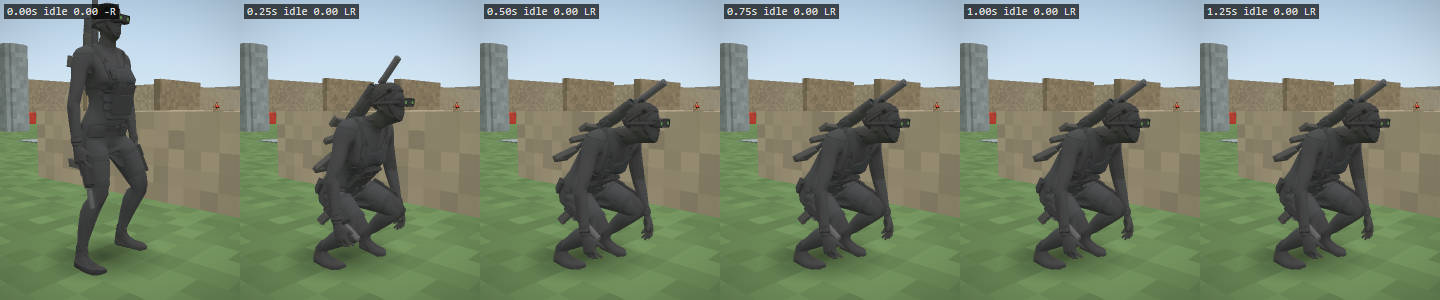
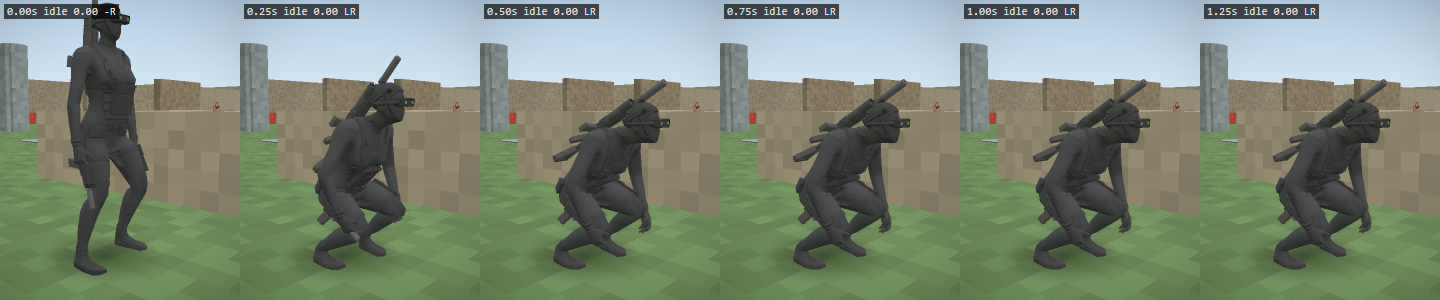
anim-cleanup: crouched free hands by the thighs above the knees (CT Core handover)
- READY_HANDS xCrouch 0, flexCrouch 0.9: crouched and holstered the hands come in by the thighs just above the knees
  (elbow ~52 deg) instead of hanging ahead of the knees towards the ground; the most bend that keeps the forearms clear
  of the thigh capsules. readyHands test: crouched elbow 15-60 deg (was 15-50).

diff --git a/src/anim/animGraph.ts b/src/anim/animGraph.ts
@@ -325,7 +325,8 @@ export const HUNCH = { spine: 0.5, pelvis: 0.1, head: 0.34, drop: 0.07, wall: 0.
  * - `z` (m) the wrist ahead of the shoulder at rest, `zCrouch` more ahead crouched, `zSprint` at the sprint (the
  *   pumping hands carried by the lower chest; A80: 1 cm with a 13 cm pump, at 8 / 16 cm the forward forearm went
  *   level at the chest and read as a reach).
- * - `flex`, `flexCrouch`, `flexSprint` (rad) the elbow bend standing (~18 deg), crouched (~34) and pumping (~80).
+ * - `flex`, `flexCrouch`, `flexSprint` (rad) the elbow bend standing (~18 deg), crouched (~52: anim-cleanup, the hands
+ *   by the thighs just above the knees over the 35-45 deg crouch, forearms clear of the thighs) and pumping (~80).
  * - `swing` (m per m/s) the counter swing fore-aft, capped at `swingMax` (m); crouched `swingCrouch` of it.
  *   `backSwing` of it behind the rest (A81: the forward swing is the bigger one), arcing `xArc` (m per m) out as
  *   the hand goes back past the hip (clear of the forward thigh); not at the sprint.
@@ -340,12 +341,12 @@ export const HUNCH = { spine: 0.5, pelvis: 0.1, head: 0.34, drop: 0.07, wall: 0.
 export const READY_HANDS = {
   x: 0.06,
   xMove: 0.03,
-  xCrouch: 0.03,
+  xCrouch: 0,
   xSprint: 0.03,
   z: 0.05,
   zCrouch: 0,
   flex: 0.31,
-  flexCrouch: 0.45,
+  flexCrouch: 0.9,
   flexSprint: 1.5,
   swing: 0.06,
   swingMax: 0.15,

diff --git a/tests/readyHands.test.ts b/tests/readyHands.test.ts
@@ -41,9 +41,12 @@ describe('holstered arms (D5.6 trained posture, M14 relaxed)', () => {
       ['stand-walk', 0, 1.2, 0, 8, 30, 0.08],
       ['stand-jog', 0, 3, 0, 8, 30, 0.15],
       ['stand-sprint', 0, 5.5, 1, 55, 95, 0.2],
-      ['crouch', 1, 0, 0, 15, 50, 0],
-      ['crouch-walk', 1, 0.8, 0, 15, 50, 0.03],
-      ['crouch-run', 1, 2.5, 0, 15, 50, 0.08],
+      // (anim-cleanup, CT Core's P1c handover) crouched the hands come in by the thighs just above the knees over the
+      // 35-45 degree crouch: ~52 degrees at the elbow (it was a 15-50 soft bend, the hands then hanging ahead of the
+      // knees towards the ground); still never straight, the forearms still clear of the thighs (below)
+      ['crouch', 1, 0, 0, 15, 60, 0],
+      ['crouch-walk', 1, 0.8, 0, 15, 60, 0.03],
+      ['crouch-run', 1, 2.5, 0, 15, 60, 0.08],
     ];
     const out: Record<string, number[]> = {};
     for (const [name, crouch, speed, dash] of cases) {

diff --git a/docs/anim-cleanup/POLISH.md b/docs/anim-cleanup/POLISH.md
@@ -14,7 +14,5 @@
 - (audit tool) traverse-shots.mjs: the window vault and duct set-ups do not start the move (kind 'none') and the wall
   ones do not enter the wall; use anim-sheet's wall scenarios and fix the set-ups when those moves are audited.
 - Rappel, fence and split-jump contacts not yet audited on Wren (no set-up on Proving in the shot script).
-- (P1c handover from CT Core) Crouched and holstered, the free arms hang straight from the shoulders, so the hands sit
-  ahead of the knees, fingers to the ground. Believable fix: rest the hands on the thighs above the knees (the crouch
-  ready-hand position: animGraph xCrouch / zCrouch / flexCrouch, coordinate with CT Core) and turn the wrists palm-in
-  (this job: the relaxed-hand wrist, CharacterRig.solveArm's free-hand branch).
+- (P1c handover, done for position) Crouched free hands now come in by the thighs just above the knees (elbow ~52 deg,
+  forearms clear of the thighs); the wrist is still the forearm's line (palm-in rest: later).

diff --git a/docs/anim-cleanup/LOG.md b/docs/anim-cleanup/LOG.md
@@ -80,3 +80,4 @@
 - Merged CT Core's 939fc95 (the F1a binding table): all unit tests pass (1669).
 - Merged CT Core's B3 (48aea54, protocol 17 = the held jammer): this branch's left-shoulder bit is now PROTOCOL_VERSION 18 (tests updated); unit tests 1686 pass.
 - Merged CT Core's P1c (924b804d: no idle kneel, eased carriage hunch, crouch ready hands lowered); unit tests pass; crouch sheets re-shot. The crouched free-hand placement is on POLISH.md (offered to this job by CT Core).
+- Crouched free hands (CT Core handed over READY_HANDS xCrouch / zCrouch / flexCrouch): xCrouch 0, flexCrouch 0.9 (elbow ~52 deg): the hands by the thighs just above the knees, not hanging ahead of them to the ground; the most bend that keeps the forearms clear of the thigh capsules (readyHands test cap 60). e2e-anim, e2e-clip, e2e-weapons-carry pass.
